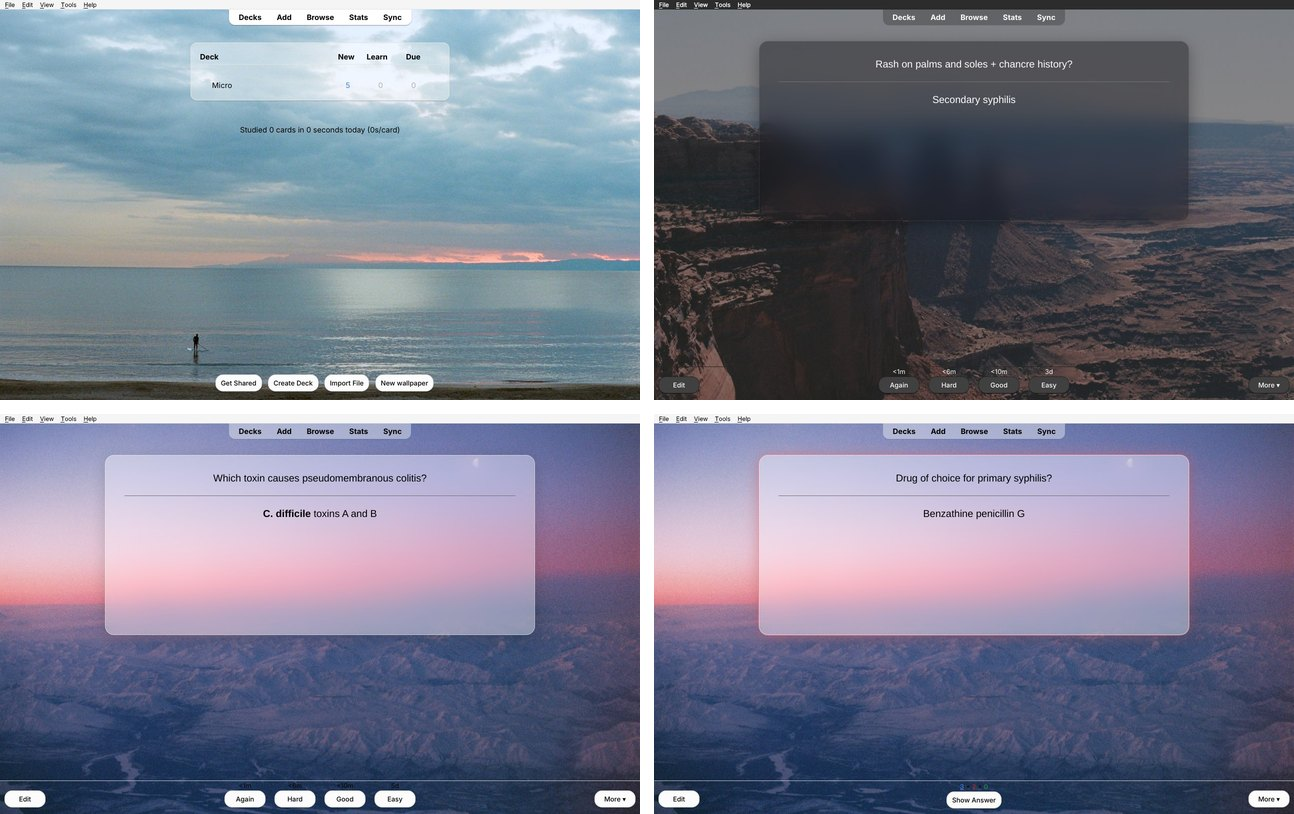
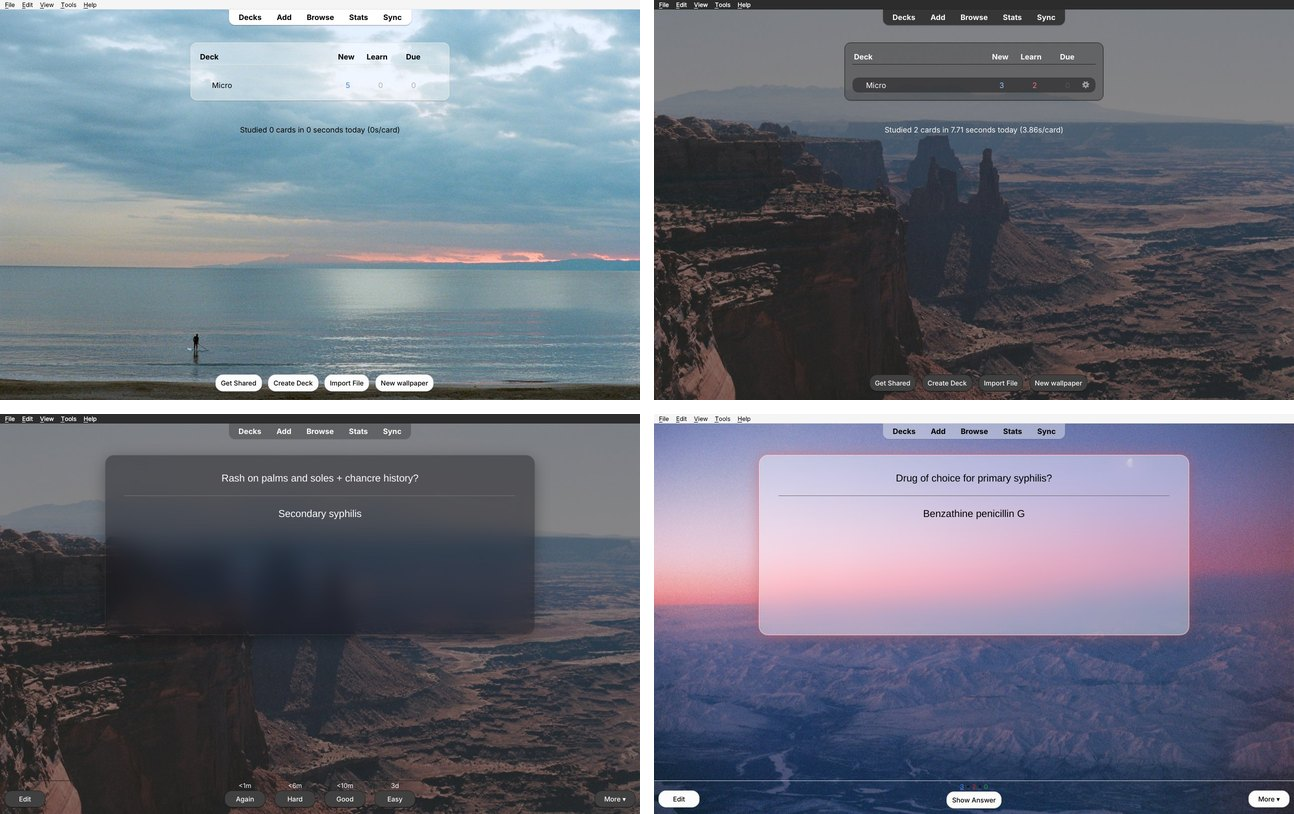
AnkiWeb grid: show the canyon wallpaper
Claude-Session: https://claude.ai/code/session_012cZ2edc3Z83QWC5adsUwSL

diff --git a/docs/ankiweb_description.md b/docs/ankiweb_description.md
@@ -12,7 +12,7 @@
 - **New wallpaper** button on the deck list, and Ctrl+Shift+W anywhere.
 - One **Settings** window (Tools → Frosted Glass → Settings). Changes show up live.
 
-![Deck list, dark mode, review and the glow on Again](https://raw.githubusercontent.com/aidansun525/liquid-glass-anki-theme/main/docs/screenshots/ankiweb_grid.jpg)
+![Deck list in light and dark mode, dark review and the glow on Again](https://raw.githubusercontent.com/aidansun525/liquid-glass-anki-theme/main/docs/screenshots/ankiweb_grid.jpg)
 
 ![Settings: wallpaper, daily downloads, glass and sound](https://raw.githubusercontent.com/aidansun525/liquid-glass-anki-theme/main/docs/screenshots/ankiweb_settings.jpg)
 
